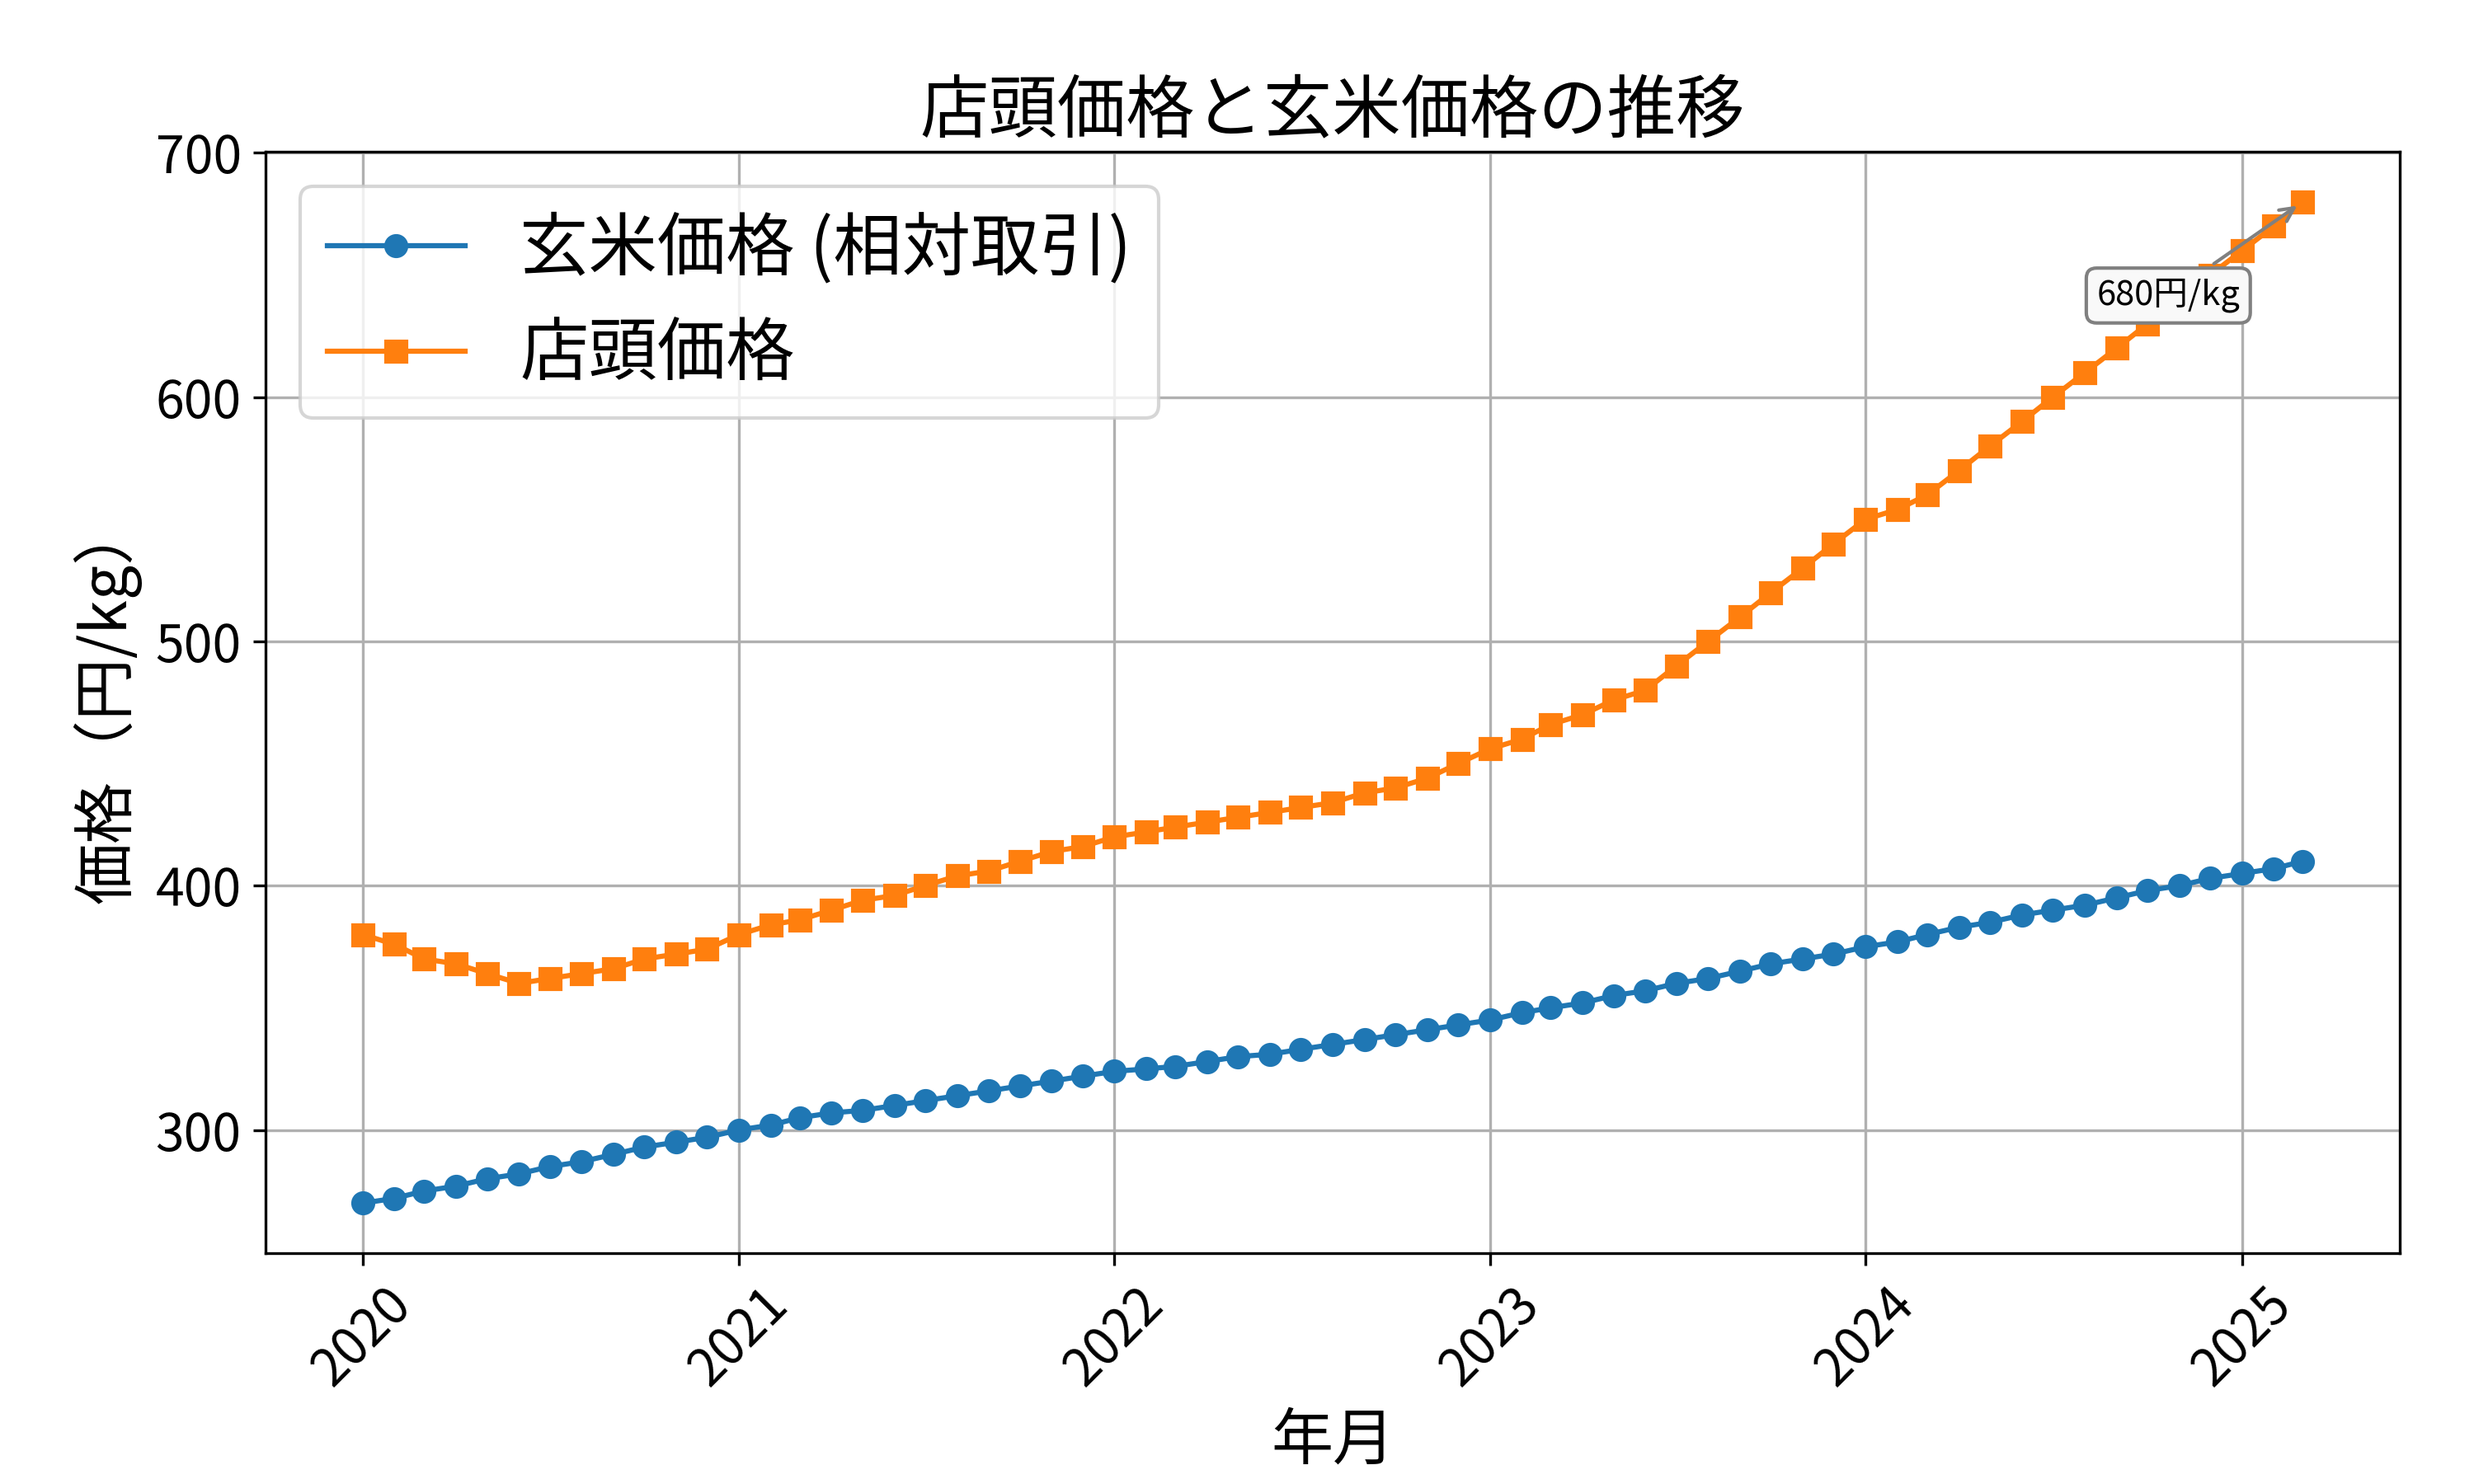
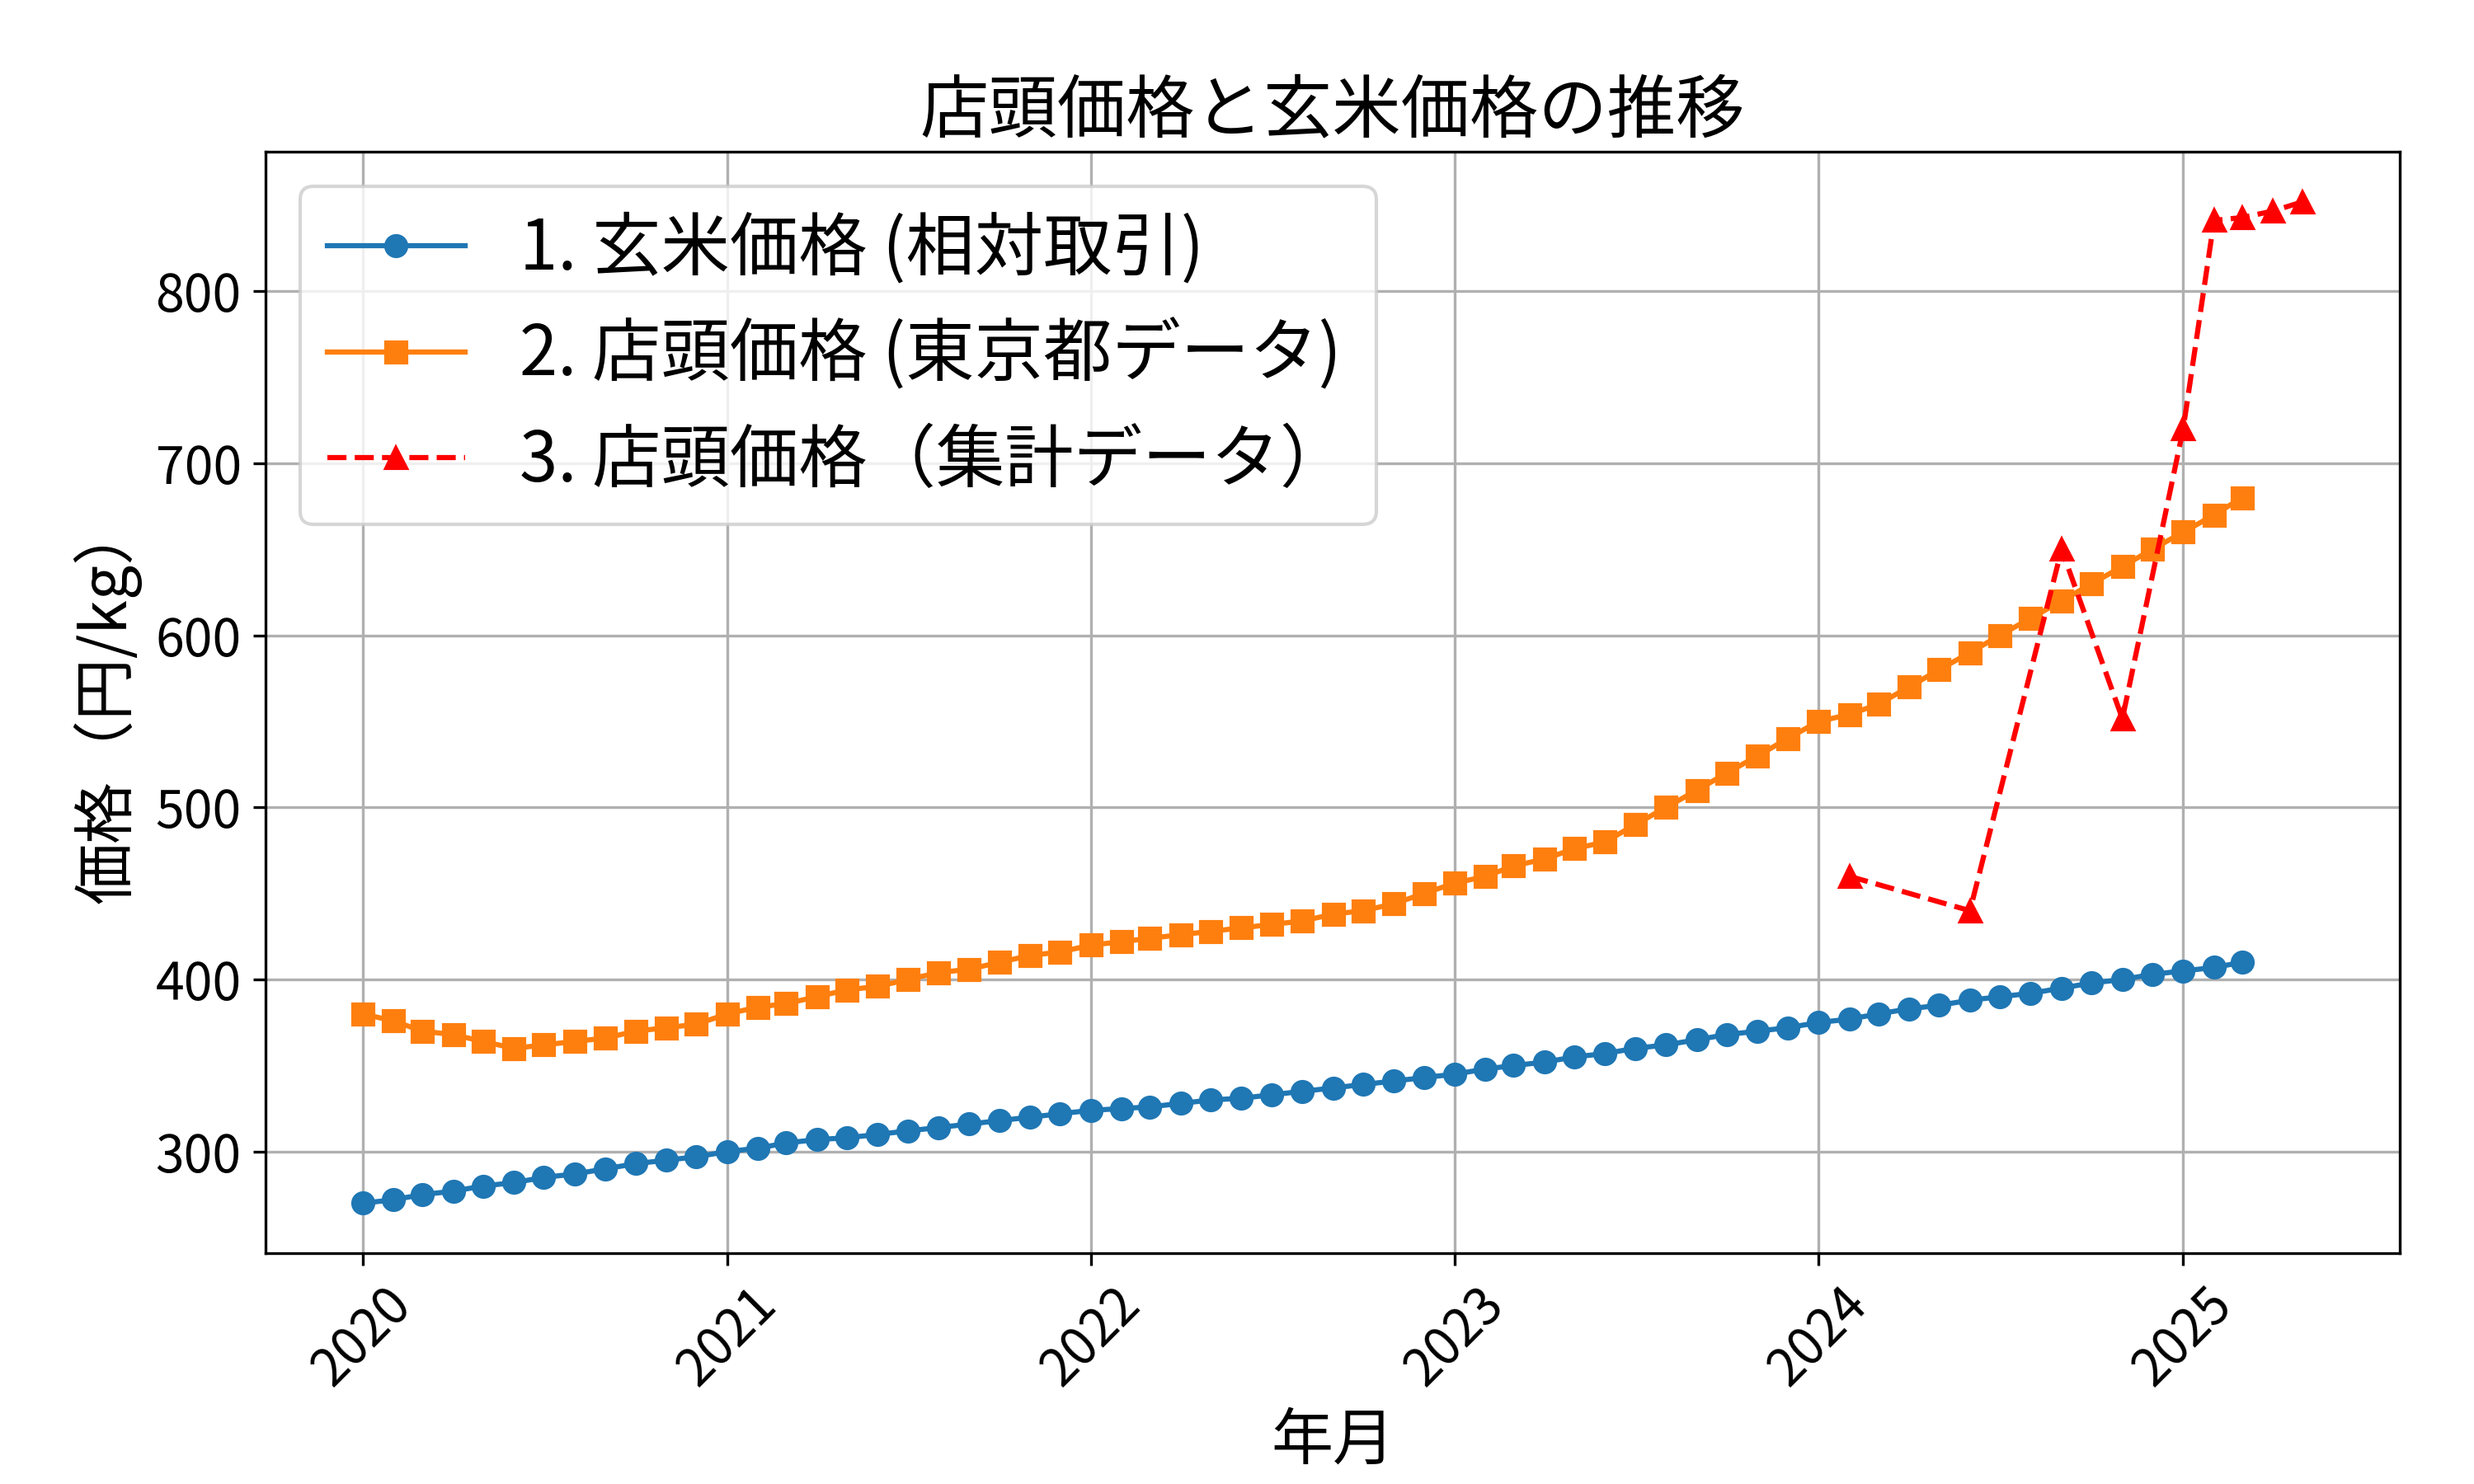
figs/rice_price.png マスコミ集計データ追加

diff --git a/plot_rice_price.py b/plot_rice_price.py
@@ -14,21 +14,23 @@ plt.rcParams.update({
 })
 
 # CSVファイルのパス
-csv_path = "data/rice_price.csv"
-
-# CSVの読み込み
-df = pd.read_csv(csv_path)
-
-# 日付として扱う
+df = pd.read_csv("data/rice_price.csv")
 df["年月"] = pd.to_datetime(df["年月"], format="%Y-%m")
-
-# 店頭価格をkgあたりに換算（5kgパック前提）
 df["店頭価格(円/kg)"] = df["店頭価格(円/5kg)"] / 5
+
+
+# ======= 追加のCSV（5kg店頭価格）を読み込み =======
+df2 = pd.read_csv("data/rice_price_shop.csv")  # 例: '米価格_5kg_月次推移.csv' をリネーム
+df2["月"] = pd.to_datetime(df2["月"], format="%Y年%m月")
+df2["店頭価格(円/kg)"] = df2["平均価格（円/5kg）"] / 5
 
 # プロット
 plt.figure(figsize=(10, 6))
-plt.plot(df["年月"], df["玄米価格(円/kg)"], label="玄米価格 (相対取引)", marker="o")
-plt.plot(df["年月"], df["店頭価格(円/kg)"], label="店頭価格", marker="s")
+plt.plot(df["年月"], df["玄米価格(円/kg)"], label="1. 玄米価格 (相対取引)", marker="o")
+plt.plot(df["年月"], df["店頭価格(円/kg)"], label="2. 店頭価格 (東京都データ)", marker="s")
+
+# 追加データ
+plt.plot(df2["月"], df2["店頭価格(円/kg)"], label="3. 店頭価格（集計データ）", linestyle="--", marker="^", color="red")
 
 # 注釈: 最近の店頭価格急騰を強調
 # latest = df.iloc[-1]

diff --git a/intro.md b/intro.md
@@ -14,6 +14,18 @@
 - URL：https://www.e-stat.go.jp/stat-search/files?-page=1&toukei=00200521&tstat=000001020141
 - 著者：総務省統計局
 
+3. 店頭販売価格の報道ベース推移（5kgパック単位）
+- 提供元：JACOM、日本経済新聞、TBS NEWS DIG、NHKなど
+- データ名：店頭米価格に関する報道・小売価格分析（2024年9月～2025年5月）
+- URL：
+    - JACOM「令和6年4月 小売価格4,233円、前年比+102.7%」https://www.jacom.or.jp/nousei/news/2024/05/240509-64796.php
+    - TBS NEWS DIG「2025年2月 店頭価格が前年比約2倍に」 https://newsdig.tbs.co.jp/articles/-/1079633
+    - NHK「2024年 秋以降、米価格上昇」 https://www3.nhk.or.jp/news/html/20240414/k10014423001000.html
+- 著者：各報道機関（農業関係メディア、ニュースメディア）
+- 提供元：JACOM、日本経済新聞、TBS NEWS DIG、NHKなど
+- データ名：店頭米価格に関する報道・小売価格分析（2024年9月～2025年5月）
+
+
 近年、日本の米市場において価格の高騰が注目を集めている。特に2024年以降、店頭での白米価格が「前年の倍」などと報道され、消費者の不安を煽る一因となっている。しかしその一方で、玄米の流通価格や政府公表の統計との間には乖離も見られ、実態の把握は必ずしも容易ではない。
 例えば上図の「店頭価格(東京都)と玄米価格(市場全体)の推移」では2023年以降の店頭価格の大きな上昇が見られる。
 
